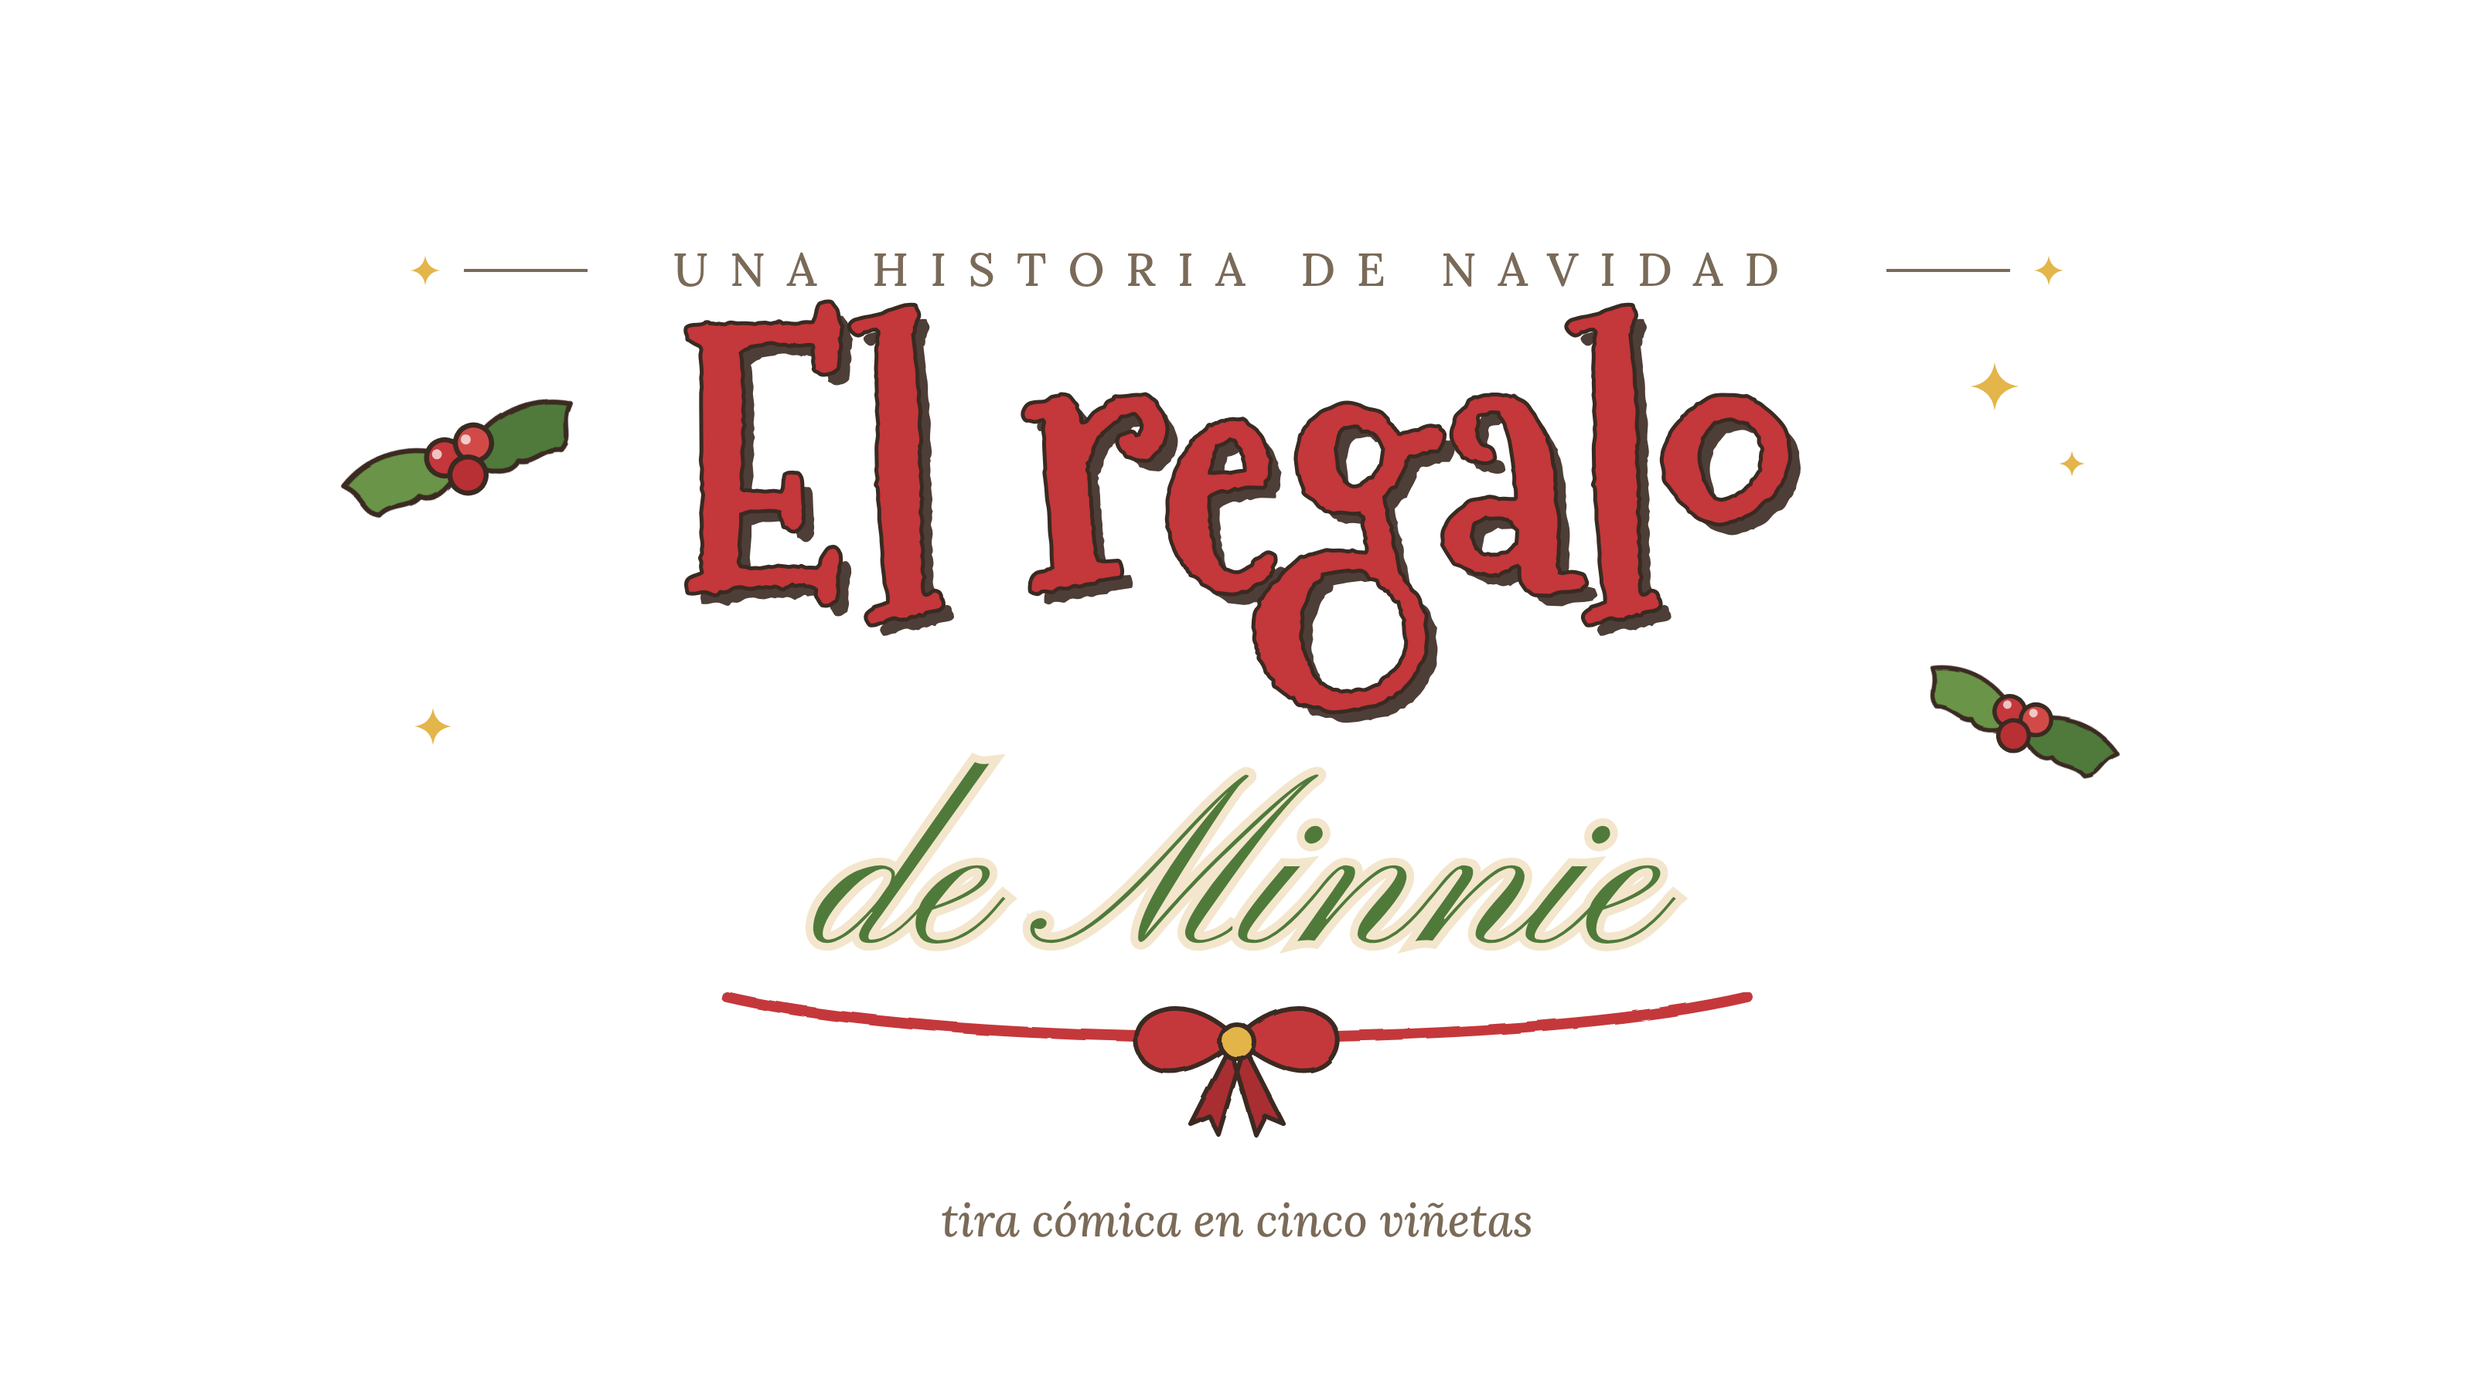
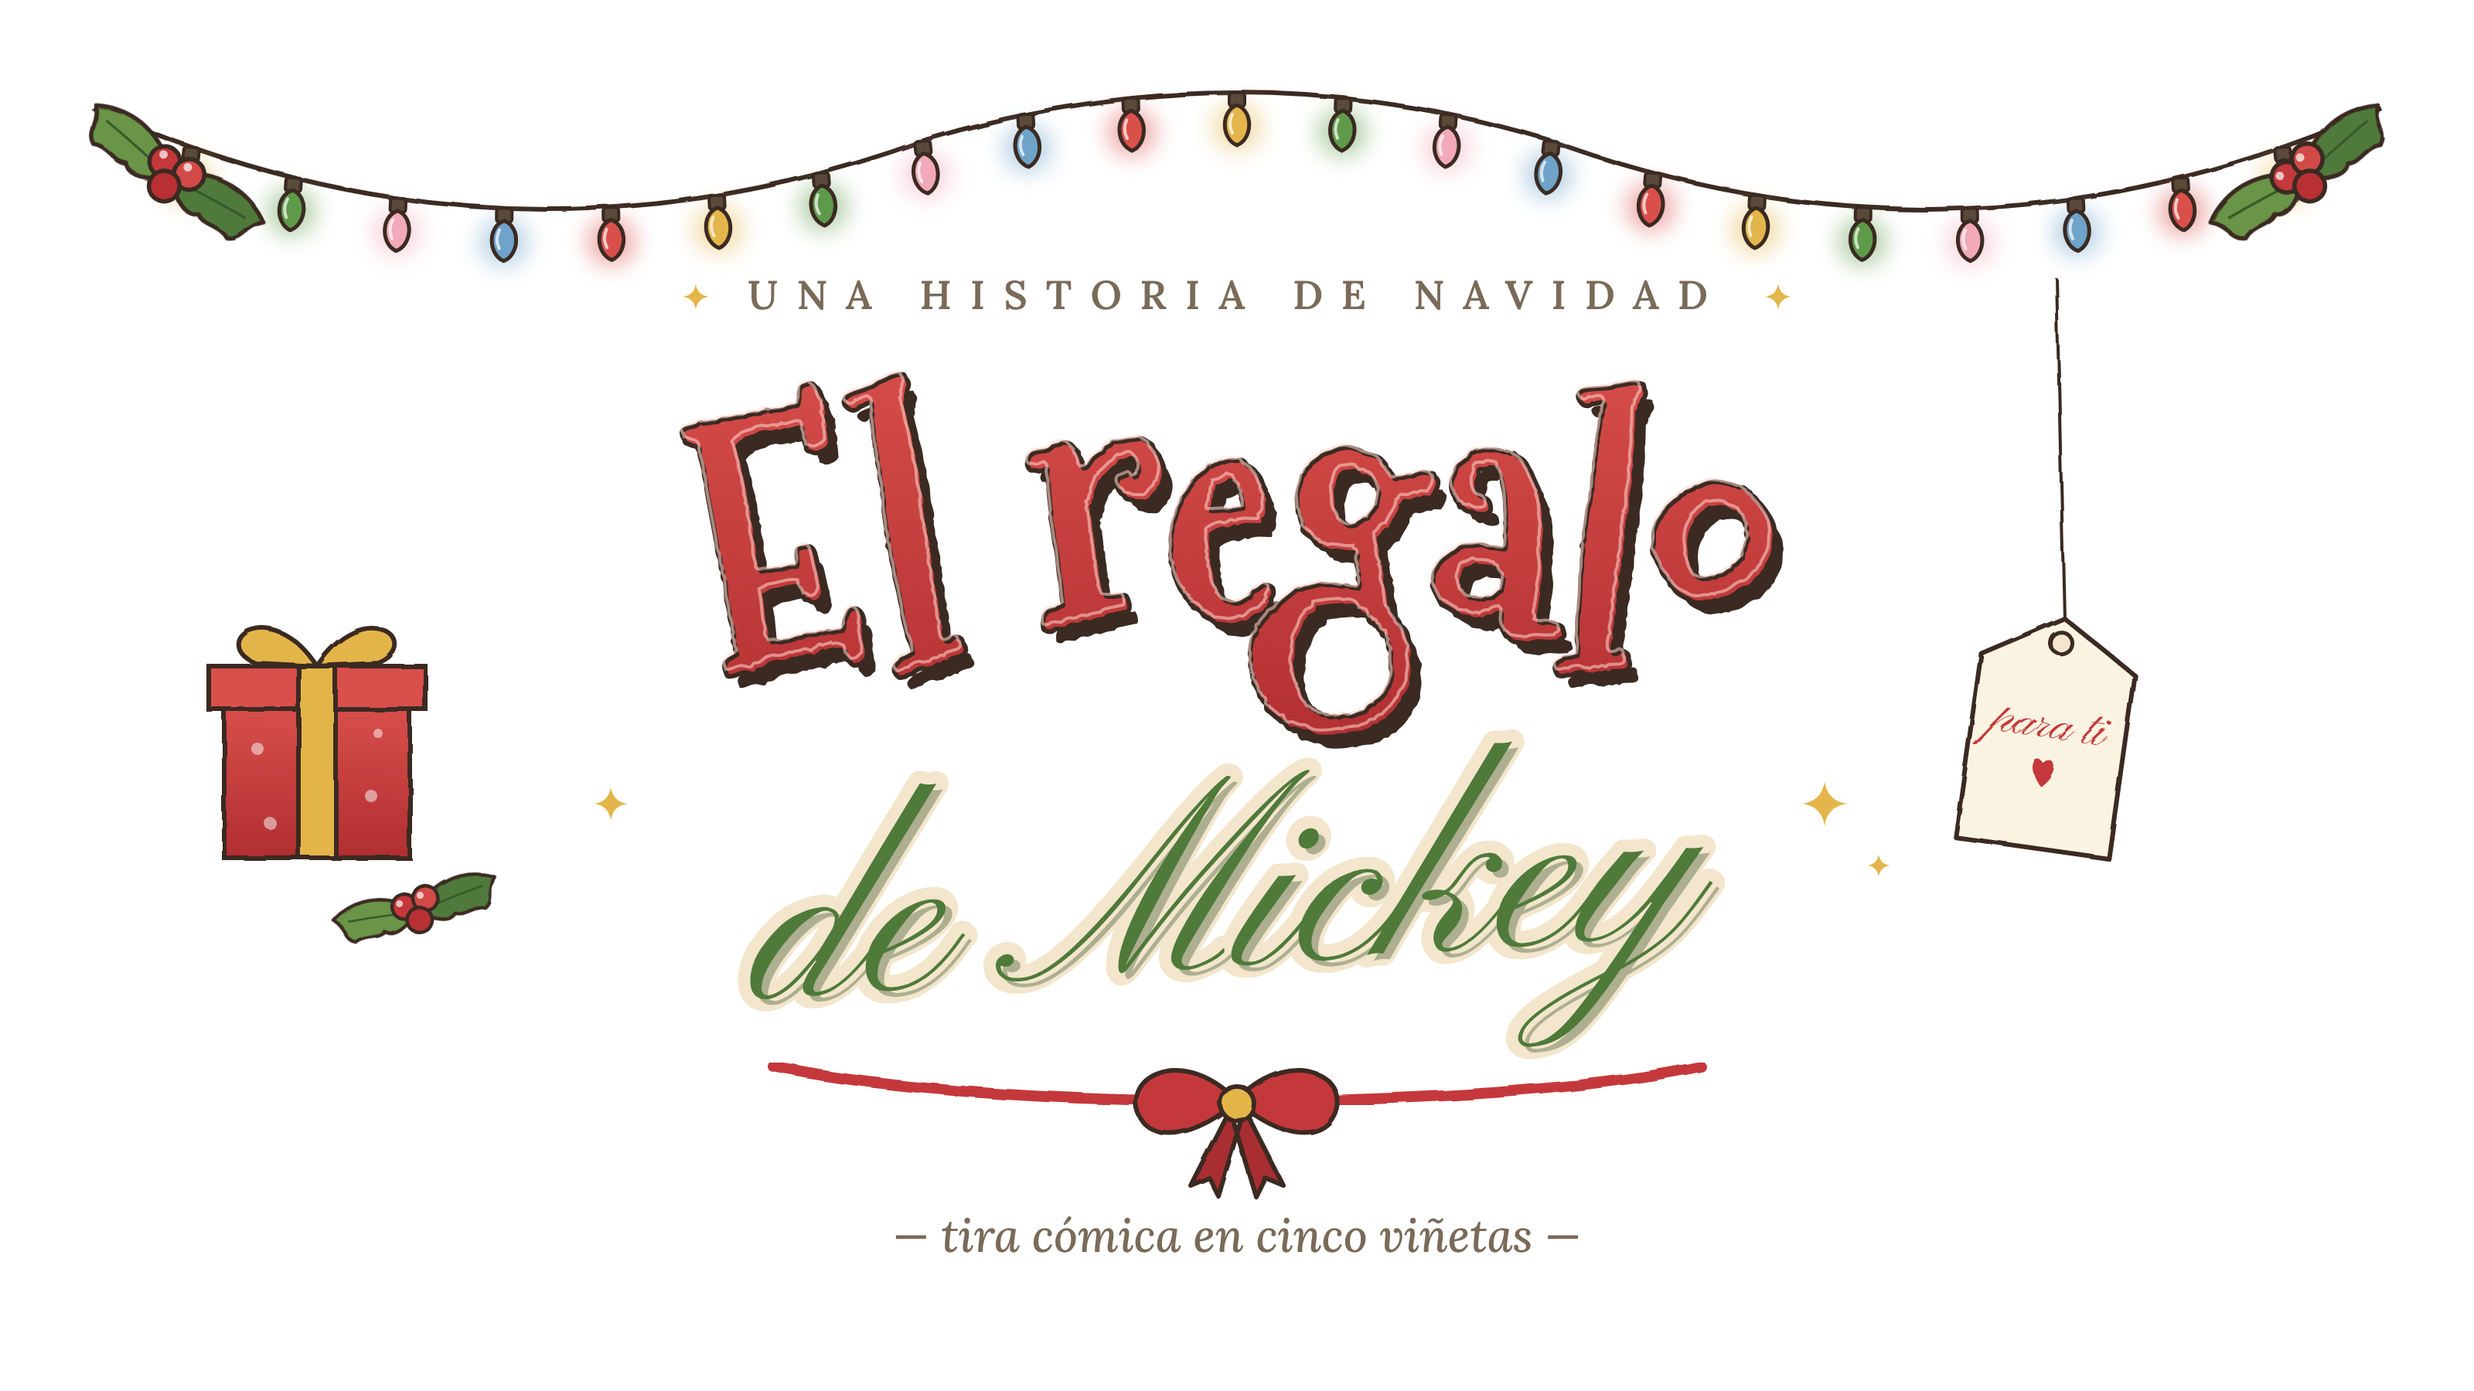
Update title lettering: El regalo de Mickey, improved design
Claude-Session: https://claude.ai/code/session_01EgrmTntFTB9DWhRJ7MqrU2

diff --git a/titulo/titulo.html b/titulo/titulo.html
@@ -1,64 +1,119 @@
 <!doctype html>
 <html><head><meta charset="utf-8">
-<link href="https://fonts.googleapis.com/css2?family=Mountains+of+Christmas:wght@700&family=Pinyon+Script&family=Lora:ital,wght@0,500;1,500&display=swap" rel="stylesheet">
+<link href="https://fonts.googleapis.com/css2?family=Mountains+of+Christmas:wght@700&family=Pinyon+Script&family=Lora:ital,wght@0,500;0,600;1,500&display=swap" rel="stylesheet">
 <style>html,body{margin:0;background:transparent}svg{display:block}</style></head><body>
-<svg id="s" width="1600" height="900" viewBox="0 0 1600 900" xmlns="http://www.w3.org/2000/svg">
+<svg id="s" width="1600" height="900" viewBox="0 0 1600 900" xmlns="http://www.w3.org/2000/svg" xmlns:xlink="http://www.w3.org/1999/xlink">
 <defs>
   <filter id="hand"><feTurbulence type="fractalNoise" baseFrequency="0.04" numOctaves="2" seed="5"/><feDisplacementMap in="SourceGraphic" scale="2.5"/></filter>
-  <filter id="grain" x="0" y="0" width="100%" height="100%"><feTurbulence type="fractalNoise" baseFrequency="0.9" numOctaves="3" seed="9" result="n"/><feColorMatrix in="n" values="0 0 0 0 1 0 0 0 0 1 0 0 0 0 1 0 0 0 -1.6 1" result="spk"/><feComposite in="spk" in2="SourceGraphic" operator="in" result="s2"/><feMerge><feMergeNode in="SourceGraphic"/><feMergeNode in="s2"/></feMerge></filter>
-  <filter id="bggrain"><feTurbulence type="fractalNoise" baseFrequency="0.85" numOctaves="3" seed="2"/><feColorMatrix values="0 0 0 0 .35 0 0 0 0 .25 0 0 0 0 .15 0 0 0 .14 0"/></filter>
+  <filter id="bggrain"><feTurbulence type="fractalNoise" baseFrequency="0.85" numOctaves="3" seed="2"/><feColorMatrix values="0 0 0 0 .35 0 0 0 0 .25 0 0 0 0 .15 0 0 0 .16 0"/></filter>
+  <filter id="glow" x="-50%" y="-50%" width="200%" height="200%"><feGaussianBlur stdDeviation="7"/></filter>
+  <radialGradient id="vig" cx=".5" cy=".45" r=".7"><stop offset=".6" stop-color="#000" stop-opacity="0"/><stop offset="1" stop-color="#6b4a2a" stop-opacity=".18"/></radialGradient>
+  <linearGradient id="redG" x1="0" y1="0" x2="0" y2="1"><stop offset="0" stop-color="#d9504b"/><stop offset="1" stop-color="#b02e31"/></linearGradient>
+  <path id="arc" d="M330 470 Q800 330 1270 470"/>
   <g id="holly">
     <path d="M0 0 C 15 -18 40 -22 60 -10 C 52 -2 56 6 48 10 C 40 6 32 12 26 8 C 20 14 10 8 0 0Z" fill="#4f7a3a" stroke="#3a2a22" stroke-width="2.5" stroke-linejoin="round" filter="url(#hand)"/>
     <path d="M0 0 C -15 -18 -40 -22 -60 -10 C -52 -2 -56 6 -48 10 C -40 6 -32 12 -26 8 C -20 14 -10 8 0 0Z" fill="#6a9446" stroke="#3a2a22" stroke-width="2.5" stroke-linejoin="round" filter="url(#hand)"/>
+    <path d="M-50 -6 Q-25 -4 0 0 Q25 -4 50 -6" stroke="#3a5a2a" stroke-width="1.5" fill="none"/>
     <circle cx="-8" cy="-6" r="9" fill="#c4373a" stroke="#3a2a22" stroke-width="2.5"/><circle cx="8" cy="-8" r="9" fill="#d24a47" stroke="#3a2a22" stroke-width="2.5"/><circle cx="0" cy="6" r="9" fill="#b83033" stroke="#3a2a22" stroke-width="2.5"/>
     <circle cx="-11" cy="-9" r="2.5" fill="#fff" opacity=".7"/><circle cx="5" cy="-11" r="2.5" fill="#fff" opacity=".7"/>
   </g>
   <path id="star" d="M0 -12 Q1.5 -1.5 12 0 Q1.5 1.5 0 12 Q-1.5 1.5 -12 0 Q-1.5 -1.5 0 -12Z" fill="#e3b54a"/>
+  <g id="flake" stroke="#fff" stroke-width="2" stroke-linecap="round"><path d="M0 -9 L0 9 M-8 -4.5 L8 4.5 M-8 4.5 L8 -4.5"/></g>
 </defs>
 
 <g id="bg">
-  <rect x="40" y="40" width="1520" height="820" rx="26" fill="#f3e6cc" stroke="#3a2a22" stroke-width="6" filter="url(#hand)"/>
-  <rect x="62" y="62" width="1476" height="776" rx="18" fill="none" stroke="#c4373a" stroke-width="3" stroke-dasharray="2 12" stroke-linecap="round"/>
+  <rect x="40" y="40" width="1520" height="820" rx="26" fill="#f3e6cc"/>
+  <rect x="40" y="40" width="1520" height="820" rx="26" fill="url(#vig)"/>
   <rect x="40" y="40" width="1520" height="820" rx="26" filter="url(#bggrain)"/>
-  <!-- snowy hill at bottom -->
-  <path d="M44 760 C 300 700 520 740 800 720 C 1080 700 1300 740 1556 700 L1556 830 Q1556 856 1530 856 L70 856 Q44 856 44 830Z" fill="#fffaf0" stroke="#3a2a22" stroke-width="4" filter="url(#hand)"/>
+  <!-- village silhouette -->
+  <g fill="#d9c9aa" stroke="#3a2a22" stroke-width="3" stroke-linejoin="round" filter="url(#hand)">
+    <path d="M60 740 L60 660 L120 610 L180 660 L180 700 L230 650 L290 700 L290 680 L360 630 L430 680 L430 740Z"/>
+    <path d="M1170 740 L1170 680 L1230 630 L1290 680 L1290 650 L1350 600 L1410 650 L1410 690 L1470 645 L1540 690 L1540 740Z"/>
+  </g>
+  <g fill="#f2c45c"><rect x="100" y="670" width="18" height="22" rx="2"/><rect x="245" y="690" width="16" height="18" rx="2"/><rect x="375" y="670" width="18" height="22" rx="2"/><rect x="1215" y="690" width="16" height="20" rx="2"/><rect x="1335" y="650" width="18" height="22" rx="2"/><rect x="1480" y="690" width="16" height="18" rx="2"/></g>
+  <!-- snowy hill -->
+  <path d="M44 760 C 300 705 520 745 800 725 C 1080 705 1300 745 1556 705 L1556 830 Q1556 856 1530 856 L70 856 Q44 856 44 830Z" fill="#fffaf0" stroke="#3a2a22" stroke-width="4" filter="url(#hand)"/>
   <g id="snow"></g>
+  <!-- frame -->
+  <rect x="40" y="40" width="1520" height="820" rx="26" fill="none" stroke="#3a2a22" stroke-width="6" filter="url(#hand)"/>
+  <rect x="60" y="60" width="1480" height="780" rx="18" fill="none" stroke="#c4373a" stroke-width="3" stroke-dasharray="16 10" stroke-linecap="round" opacity=".8"/>
 </g>
+
+<!-- string lights garland -->
+<path id="wire" d="M60 70 Q330 190 600 90 Q800 30 1000 90 Q1270 190 1540 70" fill="none" stroke="#3a2a22" stroke-width="3" filter="url(#hand)"/>
+<g id="bulbs"></g>
 
 <!-- kicker -->
-<text x="800" y="185" text-anchor="middle" font-family="Lora" font-weight="500" font-size="30" letter-spacing="14" fill="#7a6a58">UNA HISTORIA DE NAVIDAD</text>
-<path d="M300 175 L380 175 M1220 175 L1300 175" stroke="#7a6a58" stroke-width="2"/>
-<use href="#star" transform="translate(275 175) scale(.8)"/><use href="#star" transform="translate(1325 175) scale(.8)"/>
+<text x="800" y="200" text-anchor="middle" font-family="Lora" font-weight="600" font-size="26" letter-spacing="12" fill="#7a6a58">UNA HISTORIA DE NAVIDAD</text>
+<use href="#star" transform="translate(450 192) scale(.7)"/><use href="#star" transform="translate(1150 192) scale(.7)"/>
 
-<!-- main title -->
-<g>
-  <text x="808" y="388" text-anchor="middle" font-family="Mountains of Christmas" font-weight="700" font-size="230" fill="#3a2a22" opacity=".9">El regalo</text>
-  <text x="800" y="380" text-anchor="middle" font-family="Mountains of Christmas" font-weight="700" font-size="230" fill="#c4373a" stroke="#3a2a22" stroke-width="5" paint-order="stroke" stroke-linejoin="round">El regalo</text>
-</g>
+<!-- arched main title: shadow, outline, fill, highlight -->
+<text font-family="Mountains of Christmas" font-weight="700" font-size="215" text-anchor="middle" fill="#3a2a22" transform="translate(7 9)"><textPath href="#arc" startOffset="50%">El regalo</textPath></text>
+<text font-family="Mountains of Christmas" font-weight="700" font-size="215" text-anchor="middle" fill="url(#redG)" stroke="#3a2a22" stroke-width="6" paint-order="stroke" stroke-linejoin="round"><textPath href="#arc" startOffset="50%">El regalo</textPath></text>
+<text font-family="Mountains of Christmas" font-weight="700" font-size="215" text-anchor="middle" fill="none" stroke="#ffd9d0" stroke-width="2" opacity=".55" transform="translate(-2 -3)"><textPath href="#arc" startOffset="50%">El regalo</textPath></text>
 
 <!-- script line -->
-<text x="800" y="610" text-anchor="middle" font-family="Pinyon Script" font-size="150" fill="#4f7a3a" stroke="#f3e6cc" stroke-width="10" paint-order="stroke">de Minnie</text>
+<g transform="rotate(-4 800 590)">
+  <text x="790" y="625" text-anchor="middle" font-family="Pinyon Script" font-size="170" fill="#f3e6cc" stroke="#f3e6cc" stroke-width="16" stroke-linejoin="round">de Mickey</text>
+  <text x="794" y="629" text-anchor="middle" font-family="Pinyon Script" font-size="170" fill="#2d4a22" opacity=".35">de Mickey</text>
+  <text x="790" y="625" text-anchor="middle" font-family="Pinyon Script" font-size="170" fill="#4f7a3a">de Mickey</text>
+</g>
 
-<!-- ribbon swash under script -->
-<path d="M470 645 C 620 680 980 680 1130 645" fill="none" stroke="#c4373a" stroke-width="7" stroke-linecap="round" filter="url(#hand)"/>
-<g transform="translate(800 672)" filter="url(#hand)">
+<!-- ribbon swash with bow -->
+<path d="M500 690 C 640 720 960 720 1100 690" fill="none" stroke="#c4373a" stroke-width="7" stroke-linecap="round" filter="url(#hand)"/>
+<g transform="translate(800 712)" filter="url(#hand)">
   <path d="M0 0 C -40 -40 -80 -10 -60 15 C -45 30 -15 15 0 0Z" fill="#c4373a" stroke="#3a2a22" stroke-width="3"/>
   <path d="M0 0 C 40 -40 80 -10 60 15 C 45 30 15 15 0 0Z" fill="#c4373a" stroke="#3a2a22" stroke-width="3"/>
   <path d="M-4 4 L-30 55 L-18 50 L-12 62 L4 8Z M4 4 L30 55 L18 50 L12 62 L-4 8Z" fill="#a82d30" stroke="#3a2a22" stroke-width="3" stroke-linejoin="round"/>
   <circle cx="0" cy="2" r="11" fill="#e3b54a" stroke="#3a2a22" stroke-width="3"/>
 </g>
 
-<!-- holly accents -->
-<use href="#holly" transform="translate(300 300) rotate(-20) scale(1.3)"/>
-<use href="#holly" transform="translate(1305 470) rotate(25) scale(1.1)"/>
-<use href="#star" transform="translate(1290 250) scale(1.3)"/><use href="#star" transform="translate(1340 300) scale(.7)"/>
-<use href="#star" transform="translate(280 470) scale(1)"/>
+<!-- hanging gift tag (right) -->
+<g filter="url(#hand)">
+  <path d="M1330 180 L1335 400" stroke="#3a2a22" stroke-width="2" fill="none"/>
+  <g transform="translate(1335 400) rotate(8)">
+    <path d="M-50 0 L50 0 L50 120 L0 150 L-50 120Z" transform="rotate(180) translate(0 -150)" fill="#fbf3e1" stroke="#3a2a22" stroke-width="3" stroke-linejoin="round"/>
+    <circle cx="0" cy="16" r="7" fill="#f3e6cc" stroke="#3a2a22" stroke-width="2.5"/>
+    <text x="0" y="78" text-anchor="middle" font-family="Pinyon Script" font-size="32" fill="#c4373a">para ti</text>
+    <path d="M0 110 C -12 98 -6 88 0 95 C 6 88 12 98 0 110Z" fill="#c4373a"/>
+  </g>
+</g>
 
-<text x="800" y="800" text-anchor="middle" font-family="Lora" font-style="italic" font-size="30" fill="#7a6a58">tira cómica en cinco viñetas</text>
+<!-- wrapped gift (left) -->
+<g transform="translate(205 455)" filter="url(#hand)">
+  <rect x="-60" y="0" width="120" height="100" fill="url(#redG)" stroke="#3a2a22" stroke-width="3"/>
+  <rect x="-70" y="-24" width="140" height="28" fill="#d9504b" stroke="#3a2a22" stroke-width="3"/>
+  <rect x="-12" y="-24" width="24" height="124" fill="#e3b54a" stroke="#3a2a22" stroke-width="3"/>
+  <path d="M0 -24 C -30 -70 -70 -40 -40 -26Z M0 -24 C 30 -70 70 -40 40 -26Z" fill="#e3b54a" stroke="#3a2a22" stroke-width="3"/>
+  <g fill="#fff" opacity=".5"><circle cx="-38" cy="30" r="4"/><circle cx="35" cy="60" r="4"/><circle cx="-30" cy="78" r="4"/><circle cx="40" cy="20" r="3"/></g>
+</g>
+
+<!-- holly accents -->
+<use href="#holly" transform="translate(110 115) rotate(35) scale(1.1)"/>
+<use href="#holly" transform="translate(1490 115) rotate(-35) scale(1.1)"/>
+<use href="#holly" transform="translate(270 590) rotate(-15) scale(.9)"/>
+<use href="#star" transform="translate(1180 520) scale(1.2)"/><use href="#star" transform="translate(1215 560) scale(.6)"/>
+<use href="#star" transform="translate(395 520) scale(.9)"/>
+
+<text x="800" y="810" text-anchor="middle" font-family="Lora" font-style="italic" font-size="30" fill="#7a6a58">— tira cómica en cinco viñetas —</text>
 
 <script>
-const N='http://www.w3.org/2000/svg',g=document.getElementById('snow');let s=11;
-const r=()=>{s=(s*9301+49297)%233280;return s/233280};
-for(let i=0;i<120;i++){const x=70+r()*1460,y=80+r()*660;const inTitle=y>200&&y<660&&x>380&&x<1220;if(inTitle&&r()>.15)continue;const c=document.createElementNS(N,'circle');c.setAttribute('cx',x);c.setAttribute('cy',y);c.setAttribute('r',1.5+r()*3.5);c.setAttribute('fill','#fff');c.setAttribute('stroke','#d8ccb4');c.setAttribute('stroke-width','.8');g.appendChild(c)}
+const N='http://www.w3.org/2000/svg';
+let s=11;const r=()=>{s=(s*9301+49297)%233280;return s/233280};
+const g=document.getElementById('snow');
+for(let i=0;i<130;i++){const x=70+r()*1460,y=110+r()*620;if(y>190&&y<720&&x>330&&x<1270&&r()>.12)continue;
+ if(r()<.25){const u=document.createElementNS(N,'use');u.setAttribute('href','#flake');u.setAttribute('transform',`translate(${x} ${y}) scale(${.6+r()*.7})`);u.setAttribute('opacity','.9');g.appendChild(u);u.style.filter='drop-shadow(0 0 1px #b8a88a)';}
+ else{const c=document.createElementNS(N,'circle');c.setAttribute('cx',x);c.setAttribute('cy',y);c.setAttribute('r',1.5+r()*3);c.setAttribute('fill','#fff');c.setAttribute('stroke','#d8ccb4');c.setAttribute('stroke-width','.8');g.appendChild(c)}}
+// bulbs along wire
+const w=document.getElementById('wire'),L=w.getTotalLength(),B=document.getElementById('bulbs');
+const cols=['#d9504b','#e3b54a','#5f9a4a','#f2a9b9','#6fa3c9'];
+for(let i=1;i<22;i++){const p=w.getPointAtLength(L*i/22),q=w.getPointAtLength(L*i/22+1);const a=Math.atan2(q.y-p.y,q.x-p.x)*180/Math.PI;const c=cols[i%cols.length];
+ const gg=document.createElementNS(N,'g');gg.setAttribute('transform',`translate(${p.x} ${p.y}) rotate(${a*0.3})`);
+ const mk=(t,a)=>{const e=document.createElementNS(N,t);for(const k in a)e.setAttribute(k,a[k]);gg.appendChild(e)};
+ mk('circle',{cx:0,cy:22,r:16,fill:c,opacity:.45,filter:'url(#glow)'});
+ mk('rect',{x:-5,y:0,width:10,height:9,rx:2,fill:'#5a4a3a',stroke:'#3a2a22','stroke-width':2});
+ mk('path',{d:'M0 8 C -11 12 -10 30 0 34 C 10 30 11 12 0 8Z',fill:c,stroke:'#3a2a22','stroke-width':2.5});
+ mk('path',{d:'M-3 14 Q-6 20 -3 26',stroke:'#fff','stroke-width':2,fill:'none',opacity:.7,'stroke-linecap':'round'});
+ B.appendChild(gg);}
 </script>
 </svg></body></html>
